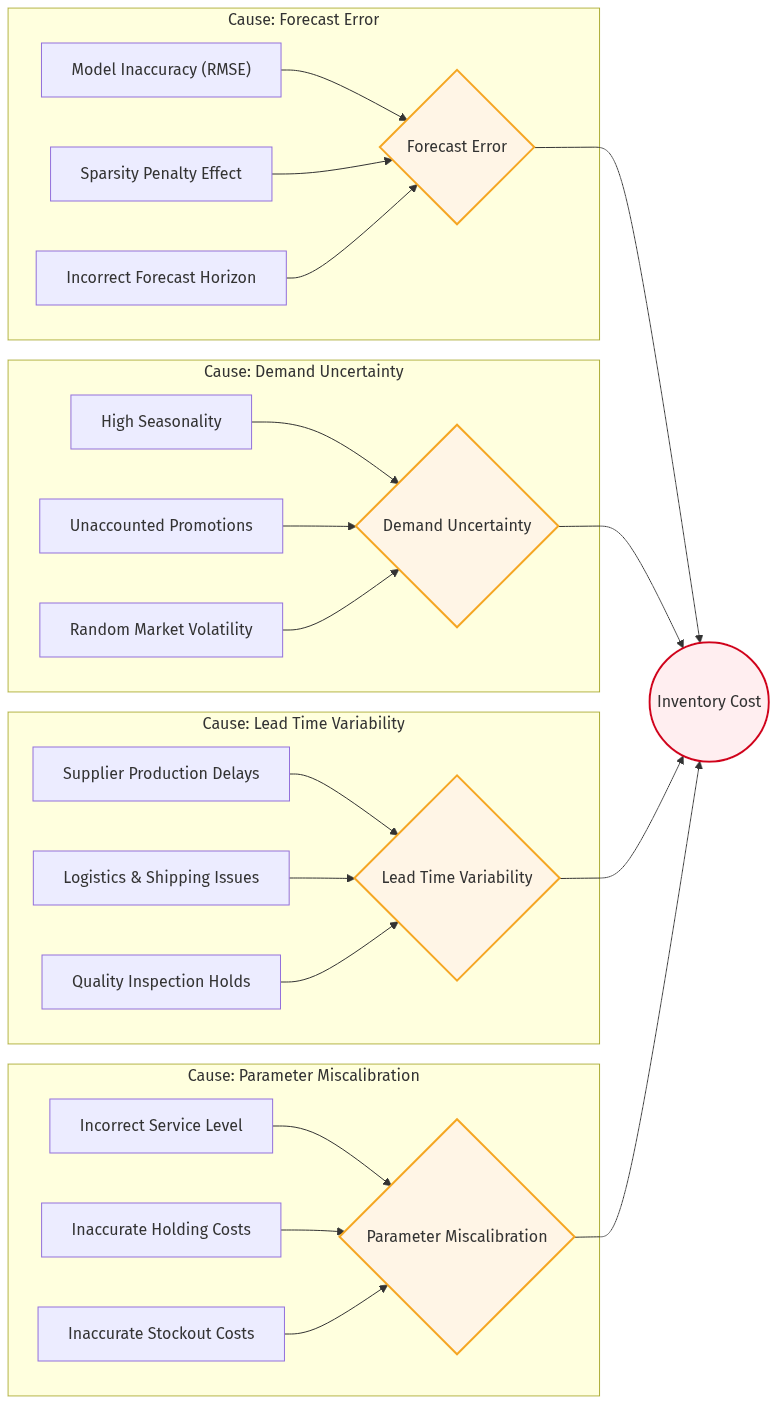
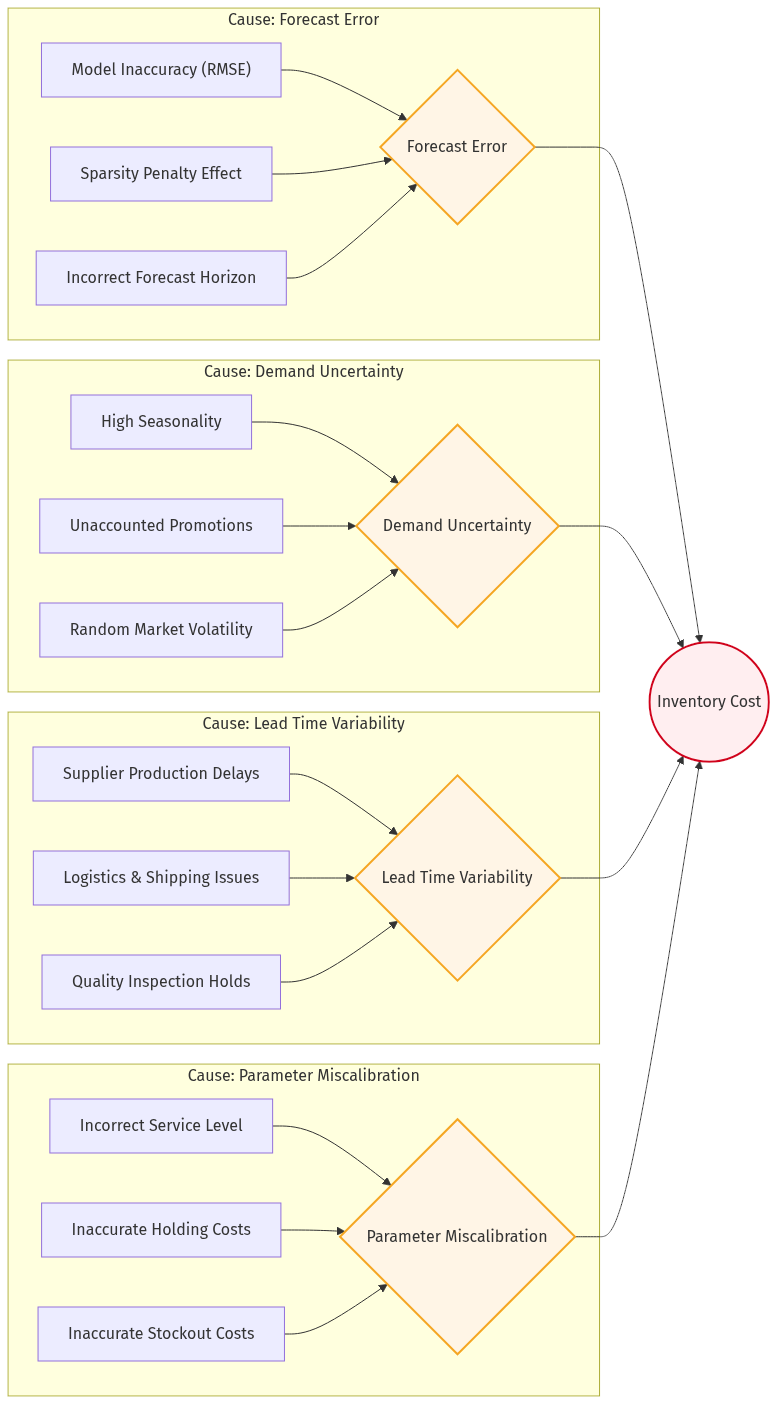
style: update gantt chart script and regenerate all report diagrams

diff --git a/backend/reports/diagrams/create_gantt_timeline.py b/backend/reports/diagrams/create_gantt_timeline.py
@@ -1,139 +1,154 @@
 from datetime import datetime
+from pathlib import Path
 
 import matplotlib.dates as mdates
 import matplotlib.pyplot as plt
 import pandas as pd
+import seaborn as sns
 
+# Set style for professional look
+sns.set_style("whitegrid")
+plt.rcParams['font.family'] = 'sans-serif'
 
 def create_gantt():
-    # 1. Define the Data (Your exact Timeline)
+    # 1. Define the Data (Project Timeline)
     data = [
-        # SECTION: IE 4197 (Current)
+        # --- PHASE I: IE 4197 (Fall 2025) ---
         {
-            "Task": "WP1: Problem Definition",
+            "Task": "WP1: Problem Definition & Scope",
             "Start": "2025-09-29",
             "End": "2025-10-17",
-            "Status": "Done",
+            "Phase": "Phase I: Definition",
+            "Completion": 100,
         },
         {
-            "Task": "WP2: Literature & Data EDA",
+            "Task": "WP2: Literature Review & EDA",
             "Start": "2025-10-20",
             "End": "2025-11-07",
-            "Status": "Done",
+            "Phase": "Phase I: Research",
+            "Completion": 100,
         },
         {
-            "Task": "WP3: Theoretical Model Design",
-            "Start": "2025-11-24",
+            "Task": "WP3: Pipeline & Methodology Design",
+            "Start": "2025-11-10",
             "End": "2025-12-12",
-            "Status": "Active",
+            "Phase": "Phase I: Design",
+            "Completion": 100,
         },
         {
-            "Task": "WP4: Data Verification & Tools",
+            "Task": "WP4: Pilot Benchmarking (10 Models)",
             "Start": "2025-12-15",
             "End": "2026-01-02",
-            "Status": "Planned",
+            "Phase": "Phase I: Validation",
+            "Completion": 100,
         },
         {
-            "Task": "Final Report Submission",
+            "Task": "Final Report Submission (IE 4197)",
             "Start": "2026-01-05",
             "End": "2026-01-06",
-            "Status": "Critical",
-        },  # 1 day duration
-        # SECTION: IE 4198 (Planned) - Added a spacer for visual separation if needed, or just continuous
+            "Phase": "Milestone",
+            "Completion": 100,
+        },
+        
+        # --- PHASE II: IE 4198 (Spring 2026) ---
         {
-            "Task": "Model Training (AI & Classic)",
+            "Task": "WP5: Full-Scale Model Training",
             "Start": "2026-02-15",
-            "End": "2026-03-30",
-            "Status": "Planned",
+            "End": "2026-03-15",
+            "Phase": "Phase II: Execution",
+            "Completion": 0,
         },
         {
-            "Task": "Inventory Optimization Logic",
-            "Start": "2026-03-01",
-            "End": "2026-04-15",
-            "Status": "Planned",
+            "Task": "WP6: Inventory Simulation & Optimization",
+            "Start": "2026-03-16",
+            "End": "2026-04-10",
+            "Phase": "Phase II: Execution",
+            "Completion": 0,
         },
         {
-            "Task": "Dashboard Integration",
+            "Task": "WP7: Dashboard Development (DSS)",
             "Start": "2026-04-01",
             "End": "2026-05-01",
-            "Status": "Planned",
+            "Phase": "Phase II: Deployment",
+            "Completion": 0,
         },
         {
-            "Task": "Final Thesis Writing",
-            "Start": "2026-04-15",
+            "Task": "WP8: Final Thesis & Defense",
+            "Start": "2026-05-01",
             "End": "2026-05-20",
-            "Status": "Planned",
+            "Phase": "Phase II: Closing",
+            "Completion": 0,
         },
     ]
 
-    # 2. Convert to DataFrame for easier handling
+    # 2. Process Data
     df = pd.DataFrame(data)
     df["Start"] = pd.to_datetime(df["Start"])
     df["End"] = pd.to_datetime(df["End"])
-    df["Duration"] = df["End"] - df["Start"]
+    df["Duration"] = (df["End"] - df["Start"]).dt.days
 
-    # Calculate duration in days for matplotlib
-    df["Duration_Days"] = df["Duration"].dt.days
-
-    # 3. Define Colors based on Status
-    color_map = {
-        "Done": "#bdc3c7",  # Grey
-        "Active": "#3498db",  # Blue
-        "Planned": "#2ecc71",  # Green
-        "Critical": "#e74c3c",  # Red
+    # Color Palette
+    phase_colors = {
+        "Phase I: Definition": "#34495e",
+        "Phase I: Research": "#3498db",
+        "Phase I: Design": "#2980b9",
+        "Phase I: Validation": "#1abc9c",
+        "Milestone": "#e74c3c",
+        "Phase II: Execution": "#f39c12",
+        "Phase II: Deployment": "#d35400",
+        "Phase II: Closing": "#8e44ad",
     }
-    colors = [color_map[status] for status in df["Status"]]
+    colors = [phase_colors[p] for p in df["Phase"]]
 
-    # 4. Create Plot
-    fig, ax = plt.subplots(figsize=(12, 6))
+    # 3. Create Figure
+    fig, ax = plt.subplots(figsize=(14, 8))
 
-    # Create horizontal bars
-    # (y, width, left, height) -> (index, duration, start_date, thickness)
+    # Draw Bars
     bars = ax.barh(
-        df.index, df["Duration_Days"], left=df["Start"], height=0.6, color=colors
+        y=df.index, 
+        width=df["Duration"], 
+        left=df["Start"], 
+        height=0.5, 
+        color=colors,
+        alpha=0.9,
+        edgecolor='black',
+        linewidth=0.5
     )
 
-    # 5. Formatting
-
-    # Y-Axis: Show Task Names
+    # 4. Formatting
+    ax.invert_yaxis()
     ax.set_yticks(df.index)
-    ax.set_yticklabels(df["Task"], fontsize=10, fontweight="bold")
-    ax.invert_yaxis()  # Put the first task at the top
-
-    # X-Axis: Date Formatting
+    ax.set_yticklabels(df["Task"], fontsize=11, fontweight='bold', color='#2c3e50')
+    
+    # X-Axis Dates
     ax.xaxis.set_major_locator(mdates.MonthLocator())
-    ax.xaxis.set_major_formatter(mdates.DateFormatter("%Y-%m"))
-    plt.xticks(rotation=45)
+    ax.xaxis.set_major_formatter(mdates.DateFormatter("%b %Y"))
+    plt.xticks(rotation=0, fontsize=10)
 
-    # Grid and Labels
-    ax.grid(axis="x", linestyle="--", alpha=0.7)
-    ax.set_xlabel("Timeline")
-    ax.set_title(
-        "IE 4197/4198 Project Timeline", fontsize=14, fontweight="bold", pad=20
-    )
+    # Grid
+    ax.grid(axis='x', linestyle='--', alpha=0.6)
+    
+    # Title & Legend
+    plt.title("Project Timeline: IE 4197 / IE 4198", fontsize=16, fontweight='bold', pad=20)
+    plt.xlabel("Timeline (2025-2026)", fontsize=12)
 
-    # Add a Legend manually
+    # Add "Today" line
+    today = pd.Timestamp("2026-01-05")
+    plt.axvline(today, color='red', linestyle='--', alpha=0.8, label="Current Status")
+    
+    # Custom Legend
     from matplotlib.patches import Patch
-
-    legend_elements = [
-        Patch(facecolor=color_map["Done"], label="Done"),
-        Patch(facecolor=color_map["Active"], label="Active"),
-        Patch(facecolor=color_map["Planned"], label="Planned"),
-        Patch(facecolor=color_map["Critical"], label="Critical Deadline"),
-    ]
-    ax.legend(handles=legend_elements, loc="upper right")
-
-    # 6. Save
+    legend_elements = [Patch(facecolor=c, label=p) for p, c in phase_colors.items()]
+    # Split legend into Phase I and II if needed, or keep simple
+    # Let's just show Phase I vs II colors generally
+    
+    # 5. Save
     plt.tight_layout()
     output_dir = Path("backend/reports/diagrams/img")
     output_dir.mkdir(parents=True, exist_ok=True)
     output_file = output_dir / "local_gantt_chart.png"
-    plt.savefig(output_file, dpi=300)
-    print(f"✅ Success! Chart saved to: {output_file}")
-
-    # Optional: Show plot window
-    # plt.show()
-
+    plt.savefig(output_file, dpi=300, bbox_inches='tight')
+    print(f"✅ Success! Gantt Chart saved to: {output_file}")
 
 if __name__ == "__main__":
     create_gantt()

diff --git a/backend/reports/diagrams/create_mermaid.py b/backend/reports/diagrams/create_mermaid.py
@@ -1,6 +1,7 @@
 import base64
 import io
 import zlib
+from pathlib import Path
 
 import requests
 from PIL import Image
